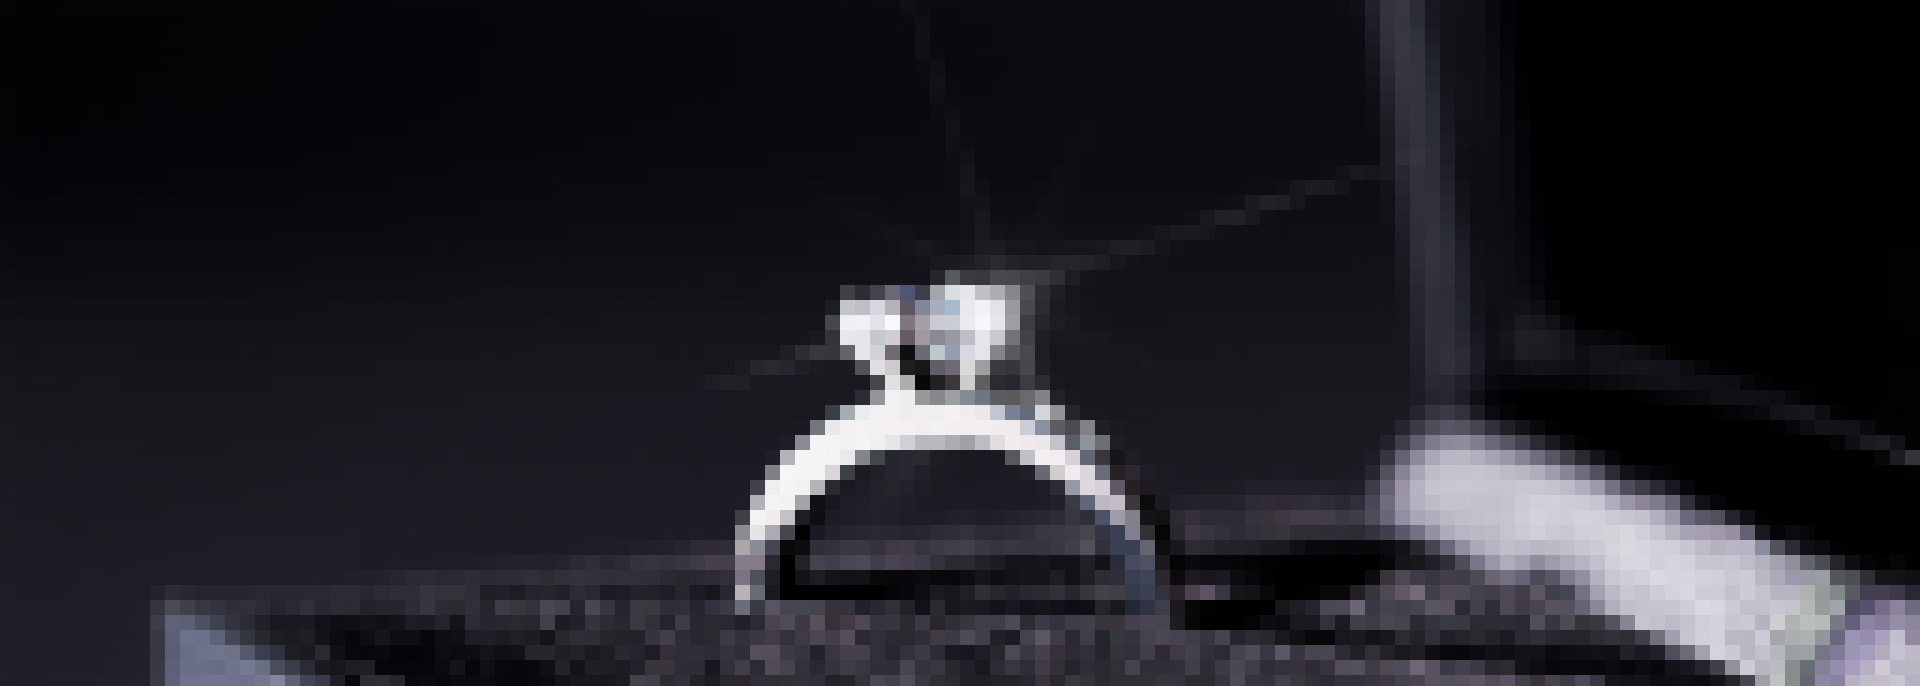
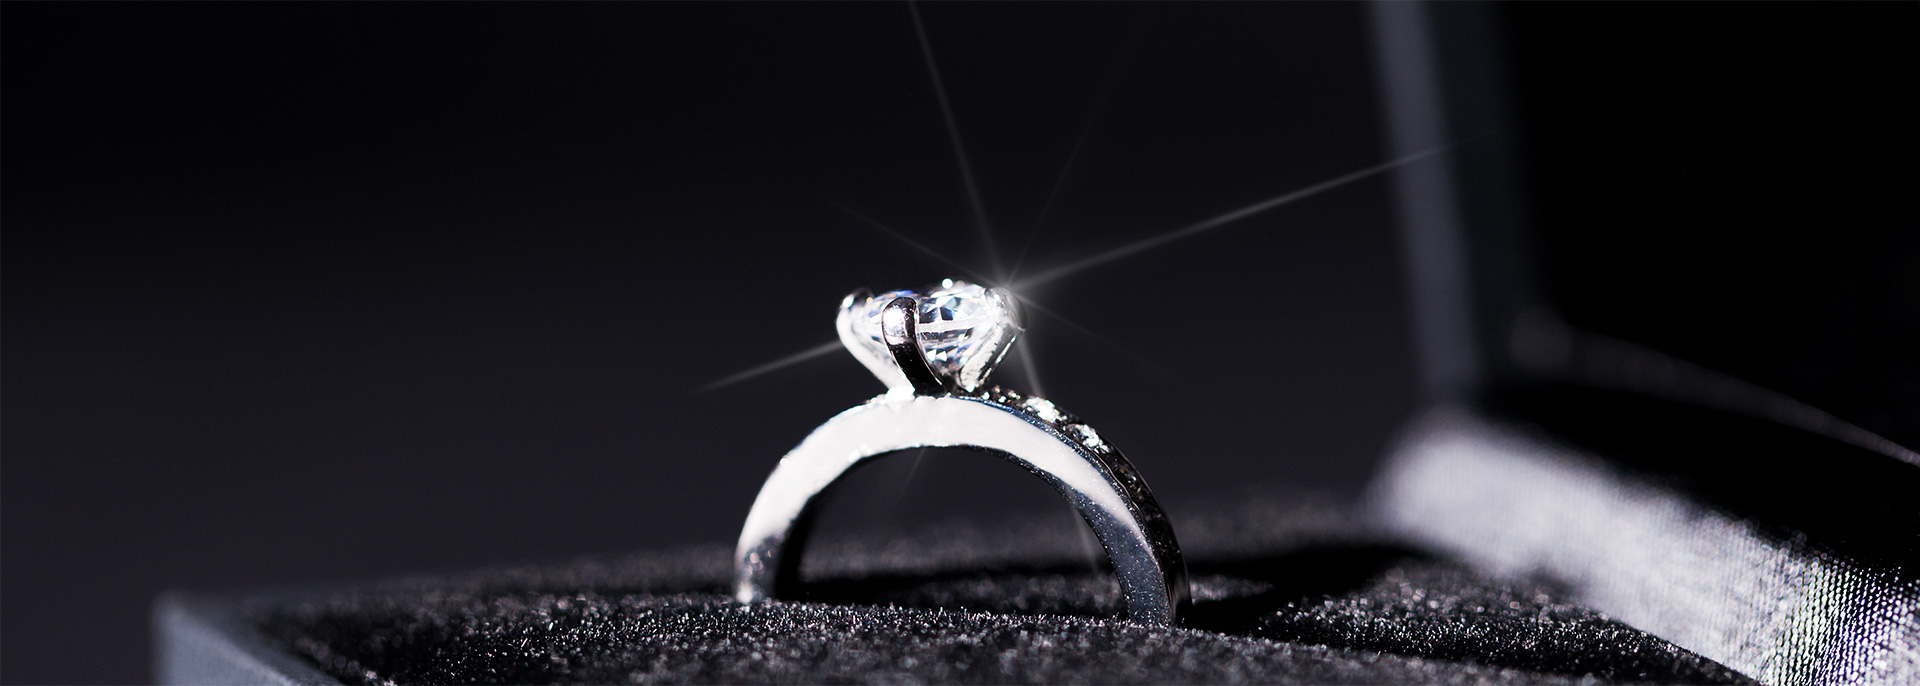
added slider

diff --git a/nuxt.config.js b/nuxt.config.js
@@ -3,26 +3,21 @@ export default {
   head: {
     title: "mynuxt",
     htmlAttrs: {
-      lang: "en",
+      lang: "en"
     },
     meta: [
       { charset: "utf-8" },
       { name: "viewport", content: "width=device-width, initial-scale=1" },
-      { hid: "description", name: "description", content: "" },
+      { hid: "description", name: "description", content: "" }
     ],
-    link: [
-      { rel: "icon", type: "image/x-icon", href: "/favicon.ico" },
-    ],
+    link: [{ rel: "icon", type: "image/x-icon", href: "/favicon.ico" }]
   },
 
   // Global CSS: https://go.nuxtjs.dev/config-css
-  css: [
-    "~/assets/css/styles.scss",
-  ],
+  css: ["~/assets/css/styles.scss"],
 
   // Plugins to run before rendering page: https://go.nuxtjs.dev/config-plugins
-  plugins: [
-  ],
+  plugins: [],
 
   // Auto import components: https://go.nuxtjs.dev/config-components
   components: true,
@@ -30,19 +25,19 @@ export default {
   // Modules for dev and build (recommended): https://go.nuxtjs.dev/config-modules
   buildModules: [
     // https://go.nuxtjs.dev/eslint
-    "@nuxtjs/eslint-module",
+    "@nuxtjs/eslint-module"
   ],
 
   // Modules: https://go.nuxtjs.dev/config-modules
   modules: [
     // https://go.nuxtjs.dev/axios
-    "@nuxtjs/axios",
+    "bootstrap-vue/nuxt",
+    "@nuxtjs/axios"
   ],
 
   // Axios module configuration: https://go.nuxtjs.dev/config-axios
   axios: {},
 
   // Build Configuration: https://go.nuxtjs.dev/config-build
-  build: {
-  },
+  build: {}
 };

diff --git a/pages/index.vue b/pages/index.vue
@@ -1,25 +1,32 @@
 <template>
   <div>
+    <Slider />
     <!-- / navigation -->
-    <div id="slider">
+    <!-- <div id="slider">
       <ul>
         <li>
           <h3>Make your life better</h3>
           <h2>Genuine diamonds</h2>
           <a href="#" class="btn-more">Read more</a>
         </li>
-        <!-- <li class="purple" style="background-image: url(../assets/images/01.jpg)">
+        <li
+          class="purple"
+          style="background-image: url(../assets/images/01.jpg)"
+        >
           <h3>She will say “yes”</h3>
           <h2>engagement ring</h2>
           <a href="#" class="btn-more">Read more</a>
         </li>
-        <li class="yellow" style="background-image: url(../assets/images/02.jpg)">
+        <li
+          class="yellow"
+          style="background-image: url(../assets/images/02.jpg)"
+        >
           <h3>You deserve to be beauty</h3>
           <h2>golden bracelets</h2>
           <a href="#" class="btn-more">Read more</a>
-        </li> -->
+        </li>
       </ul>
-    </div>
+    </div> -->
     <!-- / body -->
     <div id="body">
       <div class="container">
@@ -105,7 +112,12 @@
   </div>
 </template>
 <script>
+import Slider from "../components/Slider";
+
 export default {
   name: "PageIndex",
+  components: {
+    Slider
+  }
 };
 </script>

diff --git a/components/Header.vue b/components/Header.vue
@@ -45,7 +45,7 @@ export default {
     width: 20px;
     height: 20px;
     margin: 5px 12px 0 0;
-    //background: url(~/assets/images/ico_header.png) no-repeat;
+    background: url(../assets/images/ico_header.png) no-repeat;
   }
   .right-links span.ico-account {
     background-position: -20px 0;
@@ -72,6 +72,6 @@ export default {
   float: left;
   cursor: pointer;
   text-indent: -9999em;
-  //background: url(~/assets/images/logo.png) no-repeat;
+  background: url(../assets/images/logo.png) no-repeat;
 }
 </style>
